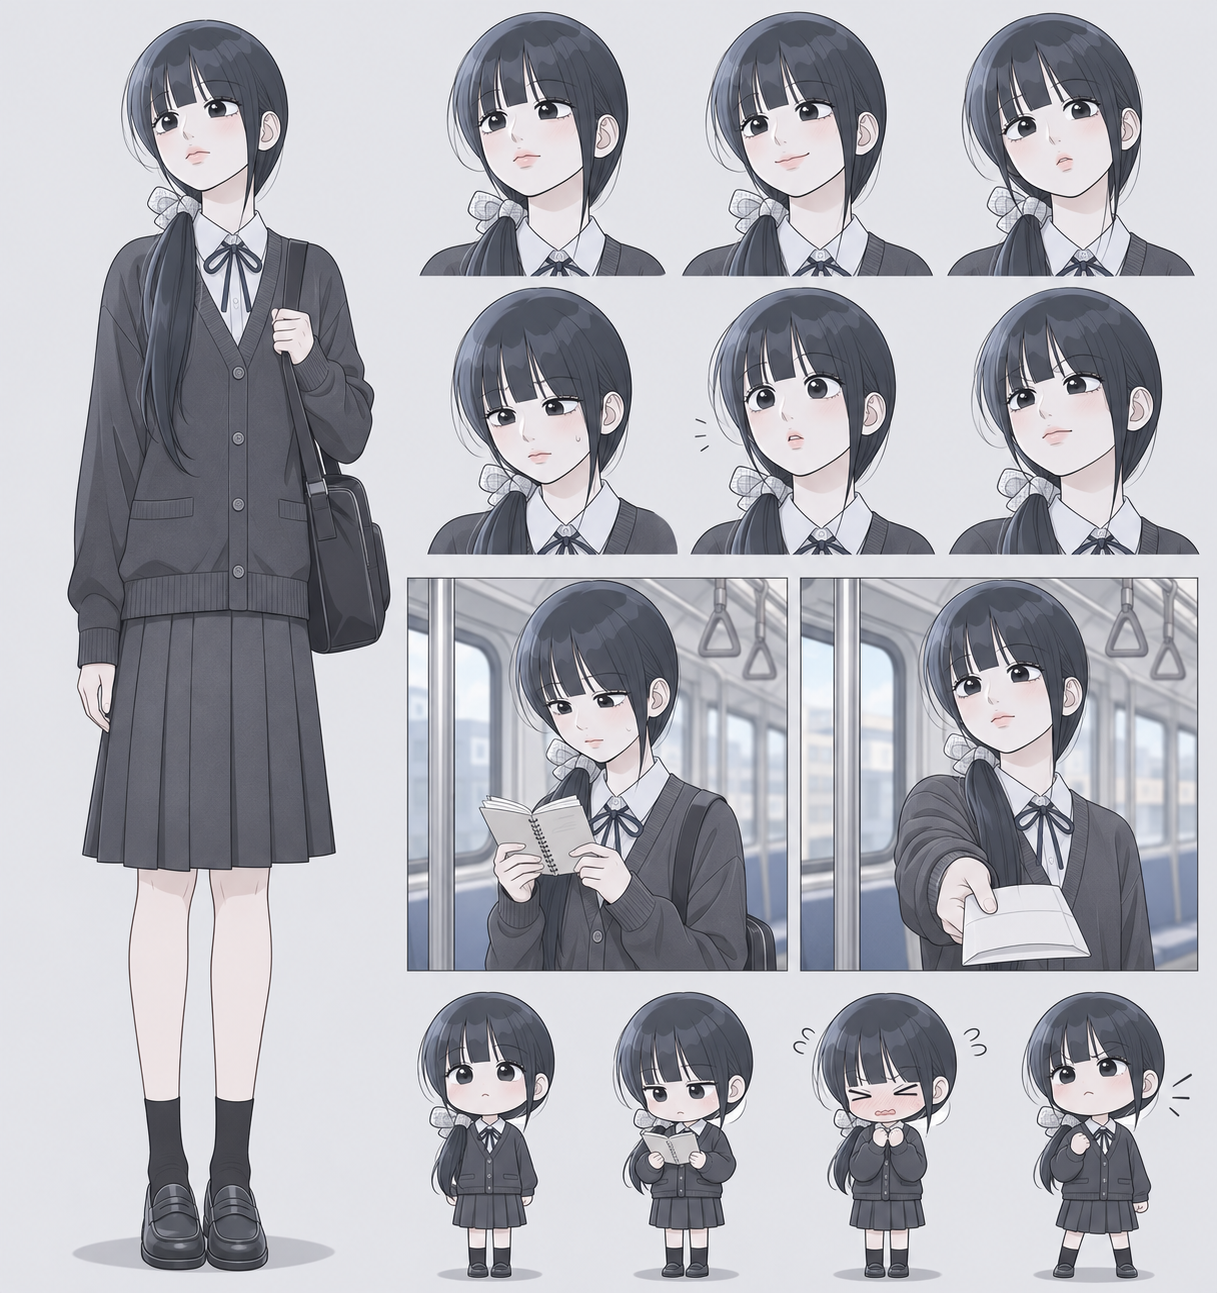
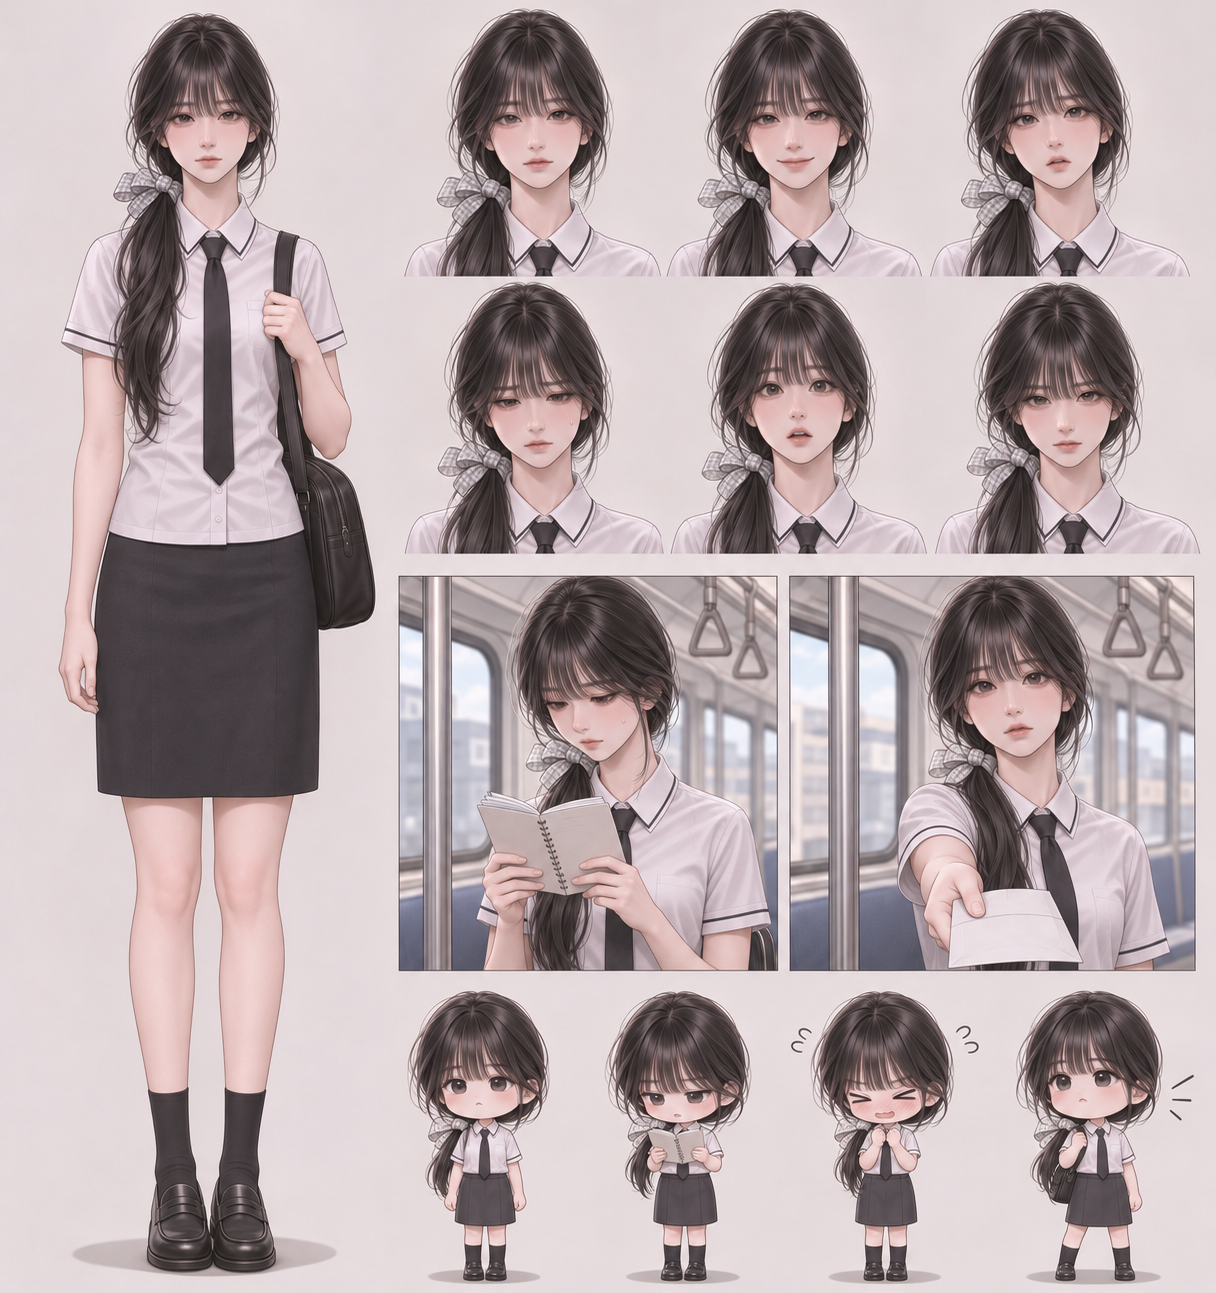
Match childhood friend art to established style and school uniform

diff --git a/fantasy-rpg/WORLD_BIBLE.md b/fantasy-rpg/WORLD_BIBLE.md
@@ -813,7 +813,7 @@
 
 ### 새 캐릭터 제작 시안
 - 이름 임소윤은 제안일 뿐 미확정이다. 정확한 나이·키·특성·연애 감정도 미정이다.
-- 낮게 묶어 어깨 앞으로 내린 검은 머리와 체크 리본, 흰 셔츠·작은 리본 타이·회색 카디건·무릎 길이 치마의 한국식 교복은 이번 원화 시안이다.
+- 낮게 묶어 어깨 앞으로 내린 검은 머리와 체크 리본은 외형 시안이다. 교복은 기존 학교 캐릭터와 동일한 흰 반팔 셔츠·깃과 소매의 가는 어두운 테두리·검정 넥타이·주름 없는 회흑색 일자 치마로 수정했다. 카디건·리본 타이·주름치마 시안은 폐기한다. 사용자 얼굴 레퍼런스는 외형만 참고하며, 고개를 치켜드는 자세나 원본 그림체를 복사하지 않는다. 기존 여경·서하 원화의 선화·머리카락 디테일·부드러운 입체 명암을 공통 기준으로 적용한다.
 - [기본 원화·표정 6종·개별 컷신 2종·SD 4종](assets/dogyeom-childhood-friend-design.png).
 - 이 파일은 미리보기용 통합 시트로, 투명 배경 게임용 스프라이트가 아니다. 게임 설치본에는 아직 연결하지 않았다.
 - 개별 이벤트 초안: 현실 지하철에서 같은 칸에 있고 서로 말을 들을 수 있는 거리일 때, 도겸에게 전달할 학교 안내문을 확인한다. 플레이어는 안내문을 건네겠다고 하거나 직접 전하라고 답할 수 있다. 전달을 부탁할 때만 오른쪽 컷신, 메모 확인 시 왼쪽 컷신을 사용한다. 선택당 1분은 제작 시안이며 중단 시 보류 시간을 반영하지 않는 기존 이벤트 엔진 규칙을 따른다. 실제 만남·친분·이름을 자동 해금하지 않는다. 본편 구현 전 초안이다.
